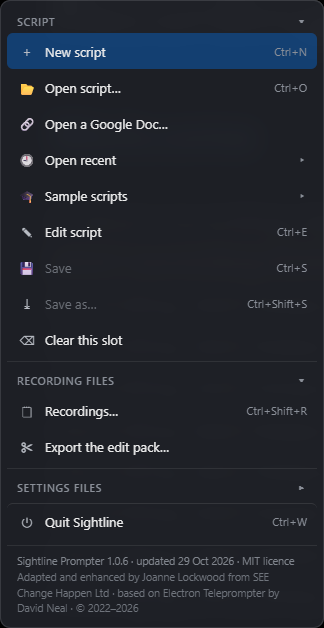
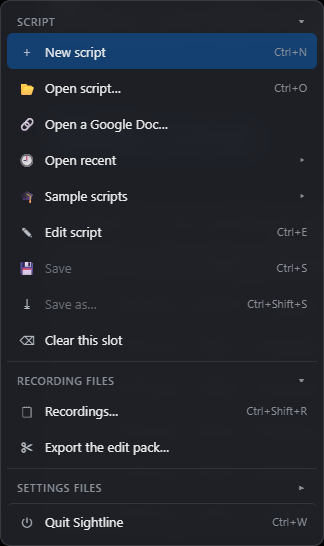
Keep copyright and attribution on the About page

diff --git a/src/client/teleprompter.js b/src/client/teleprompter.js
@@ -3792,10 +3792,6 @@ function renderAppMenu() {
 	const quit = menuButton( "⏻", "Quit Sightline", "Ctrl+W", quitApp );
 	quit.classList.add( "am-quit" );
 	appMenu.appendChild( quit );
-	const footer = document.createElement( "p" );
-	footer.className = "app-footer am-footer";
-	fillFooter( footer );
-	appMenu.appendChild( footer );
 }
 
 function toggleAppMenu() {
@@ -4347,8 +4343,7 @@ aboutModal?.addEventListener( "mousedown", ( e ) => {
 	if ( e.target === aboutModal ) closeAbout();
 } );
 window.electron.onMenuAbout( openAbout );
-// A quiet line at the foot of the menu and Settings: version, date, licence, credit.
-let appInfo = null;
+// Version details for Settings and the full About page.
 function formatReleaseDate( iso ) {
 	const d = iso ? new Date( `${ iso }T12:00:00` ) : null;
 	return d && !Number.isNaN( d.getTime() )
@@ -4359,31 +4354,9 @@ function formatReleaseDate( iso ) {
 		} )
 		: null;
 }
-function fillFooter( el ) {
-	if ( !el ) return;
-	el.replaceChildren();
-	const date = formatReleaseDate( appInfo?.releaseDate );
-	const line = [
-		`Sightline Prompter ${ appInfo?.version ?? "" }`.trim(),
-		date && `updated ${ date }`,
-		"MIT licence"
-	]
-		.filter( Boolean )
-		.join( " · " );
-	const credit = document.createElement( "span" );
-	credit.className = "footer-credit";
-	const CREDIT = [
-		"Adapted and enhanced by Joanne Lockwood from SEE Change Happen Ltd",
-		"based on Electron Teleprompter by David Neal",
-		"© 2022–2026"
-	];
-	credit.textContent = CREDIT.join( " · " );
-	el.append( line, document.createElement( "br" ), credit );
-}
 window.electron.getAppInfo();
 
 window.electron.onAppInfo( ( info ) => {
-	appInfo = info;
 	const brief = document.getElementById( "settings-about-version" );
 	if ( brief ) {
 		const updated = formatReleaseDate( info.releaseDate );

diff --git a/src/client/teleprompter.html b/src/client/teleprompter.html
@@ -1022,13 +1022,10 @@
           <legend>Sightline Prompter</legend>
           <p class="settings-about-version" id="settings-about-version"></p>
           <p>
-            The teleprompter that works with your AI. Adapted and enhanced by
-            <strong>Joanne Lockwood</strong> from <strong>SEE Change Happen Ltd</strong>,
-            based on Electron Teleprompter by <strong>David Neal</strong>.
+            The teleprompter that works with your AI.
           </p>
-          <p class="field-hint">MIT licence · © 2022–2026</p>
           <p class="settings-about-actions">
-            <button type="button" id="settings-about-full">Full About page…</button>
+            <button type="button" id="settings-about-full">Credits and licence…</button>
             <button type="button" id="settings-about-guide">User guide</button>
             <button type="button" id="settings-about-updates">Check for updates</button>
             <button type="button" id="settings-about-support">☕ Support Sightline</button>

diff --git a/src/client/teleprompter.css b/src/client/teleprompter.css
@@ -2615,14 +2615,6 @@ body.notes-pages #md ol.current-section {
   font-size: 11px;
 }
 
-/* Version, licence and credit at the foot of the menu and Settings. */
-.app-footer {
-	margin: 0;
-	font-size: 10.5px;
-	line-height: 1.5;
-	color: #80858d;
-}
-
 .settings-content .modal-actions {
 	align-items: center;
 }
@@ -2641,36 +2633,9 @@ body.notes-pages #md ol.current-section {
 	gap: 8px;
 }
 
-.settings-content .modal-actions .app-footer {
-	font-size: 10.5px;
-	flex: 1 1 auto;
-	margin-right: auto;
-	text-align: left;
-}
-
 .am-quit {
 	margin-top: 4px;
 	border-top: 1px solid rgba(255, 255, 255, 0.1);
-}
-
-.am-footer {
-	margin-top: 6px;
-	padding: 8px 10px 4px;
-	border-top: 1px solid rgba(255, 255, 255, 0.08);
-}
-
-.app-footer .footer-link {
-	padding: 0;
-	font: inherit;
-	color: #8fd3ff;
-	background: none;
-	border: none;
-	cursor: pointer;
-	text-decoration: underline;
-}
-
-.app-footer .footer-credit {
-	color: #6f747c;
 }
 
 /* The sentence you're on (sentence-highlight.js). A soft band, so the text

diff --git a/docs/guide/07-settings.md b/docs/guide/07-settings.md
@@ -40,7 +40,7 @@ without disappearing as you move the pointer onto it.
 | **Controls** | Phone | Enable the phone remote, scan its QR code or replace its code |
 | | Stream Deck | Enable the companion plugin's buttons-only connection and open its guide |
 | | AI & API | Enable local automation, port, token, recording-delete permission and AI setup help |
-| **About** | About | Version, credits, updates, support, debug logging and the support-log export |
+| **About** | About | Version, a link to credits, updates, support, debug logging and the support-log export |
 
 OBS settings stay discoverable while disabled so you can configure them.
 Recording commands in Help and the live recording controls still follow the
@@ -113,9 +113,13 @@ Help menu, without enabling remote control.
 
 ## About, updates and support
 
-**About** gives the version, attribution and full About page, the user guide,
+**About** gives the version, **Credits and licence**, the user guide,
 Joanne's tip jar and **Check for updates**. Update checks ask GitHub; nothing
 downloads or installs automatically.
+
+**Credits and licence** opens the full About page, also available from
+**Help > About**. Copyright and attribution live there, with no repeated
+messages in the Files menu or the Settings overview.
 
 **Debug mode** adds detail to the local support log. **Save a log for support…**
 creates a file containing the version, system and enabled features, excluding

diff --git a/readme.md b/readme.md
@@ -222,6 +222,8 @@ Planned features and their order are in [ROADMAP.md](ROADMAP.md).
 
 ### Next release
 
+- **Credits in one place (development):** copyright and attribution appear on the About page. Open it from Help > About or Settings > About > Credits and licence. Repeated menu footers and the duplicate Settings credit have been removed.
+
 - **Clearer navigation (development):** Settings has five groups with focused subtabs: Prompting, Appearance, Recording, Controls and About. Short pages fit their content; longer topics and word lists use Previous/Next instead of scrolling. Contextual (?) help works with hover, keyboard focus and a tap or click. Files (☰) handles scripts, recordings and import/export; Tools holds recording tools and quick adjustments. The top bar keeps live controls, with explicit Steady/Voice switching. Duplicate file buttons and Display preferences have been removed; native menus retain keyboard access. Tabs support arrows and Home/End, Settings keeps focus inside, and Escape returns focus to the opener
 
 - **Production handover guide (development):** [From recording to the editor](docs/guide/12-production-handover.md), also in **Help > User Guide**, walks through OBS setup, framing, a short sync test, retakes, keeper choices and the files to send to Production. It distinguishes the digital slate from physical camera/mic synchronisation and records where manual checks remain

diff --git a/docs/guide/01-getting-started.md b/docs/guide/01-getting-started.md
@@ -141,8 +141,8 @@ click can't jump a take: pause first. Turn the bar off in the Layout panel.
 
 Opening one group folds the others away, so the menu stays short. Click
 anywhere else to close it. **Quit Sightline** is always at the bottom (also
-**Ctrl+W**, or **✕** on the control bar), and below it the line with the
-version and attribution. **About** is in Settings and the native Help menu.
+**Ctrl+W**, or **✕** on the control bar). Copyright and attribution are on
+the About page: **Help > About**, or **Settings > About > Credits and licence**.
 
 ## Your first take
 
